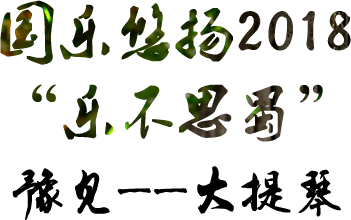
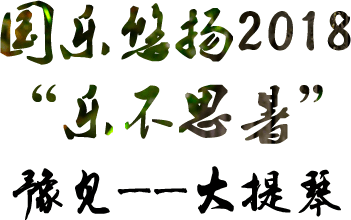
修改错别字

Changed region(s): [[0.6838, 0.3818, 0.8262, 0.6545]]

diff --git a/src/weChat/util.js b/src/weChat/util.js
@@ -75,10 +75,10 @@ class WeChat {
 class WeChatConf extends WeChat {
 	constructor(props) {
 		super(props);
-		this.title = '国乐悠扬 2018“乐不思蜀”遇见——大提琴公益活动';
+		this.title = '国乐悠扬 2018“乐不思暑”遇见——大提琴公益活动';
 		this.link = LINK; //分享链接
 		this.img_url = 'https://a.weixin.hndt.com/h5/936/icon-logo.png';
-		this.desc = '就在这个盛夏，为普及和宣传我省高雅音乐，河南广播电视台网络广播《国乐悠扬》，举办国乐悠扬2018“乐不思蜀”豫见——大提琴公益活动!';
+		this.desc = '就在这个盛夏，为普及和宣传我省高雅音乐，河南广播电视台网络广播《国乐悠扬》，举办国乐悠扬2018“乐不思暑”豫见——大提琴公益活动!';
 	}
 	init() {
 		this.hasCode();

diff --git a/src/components/Page1/Page1.vue b/src/components/Page1/Page1.vue
@@ -79,7 +79,7 @@ $color = #e60012;
       top: 140px;
       left: 0;
       width: 100%;
-      height: 200px;
+      height: 220px;
       background: url('./icon-title.png') center center no-repeat;
       background-size: contain;
     }
